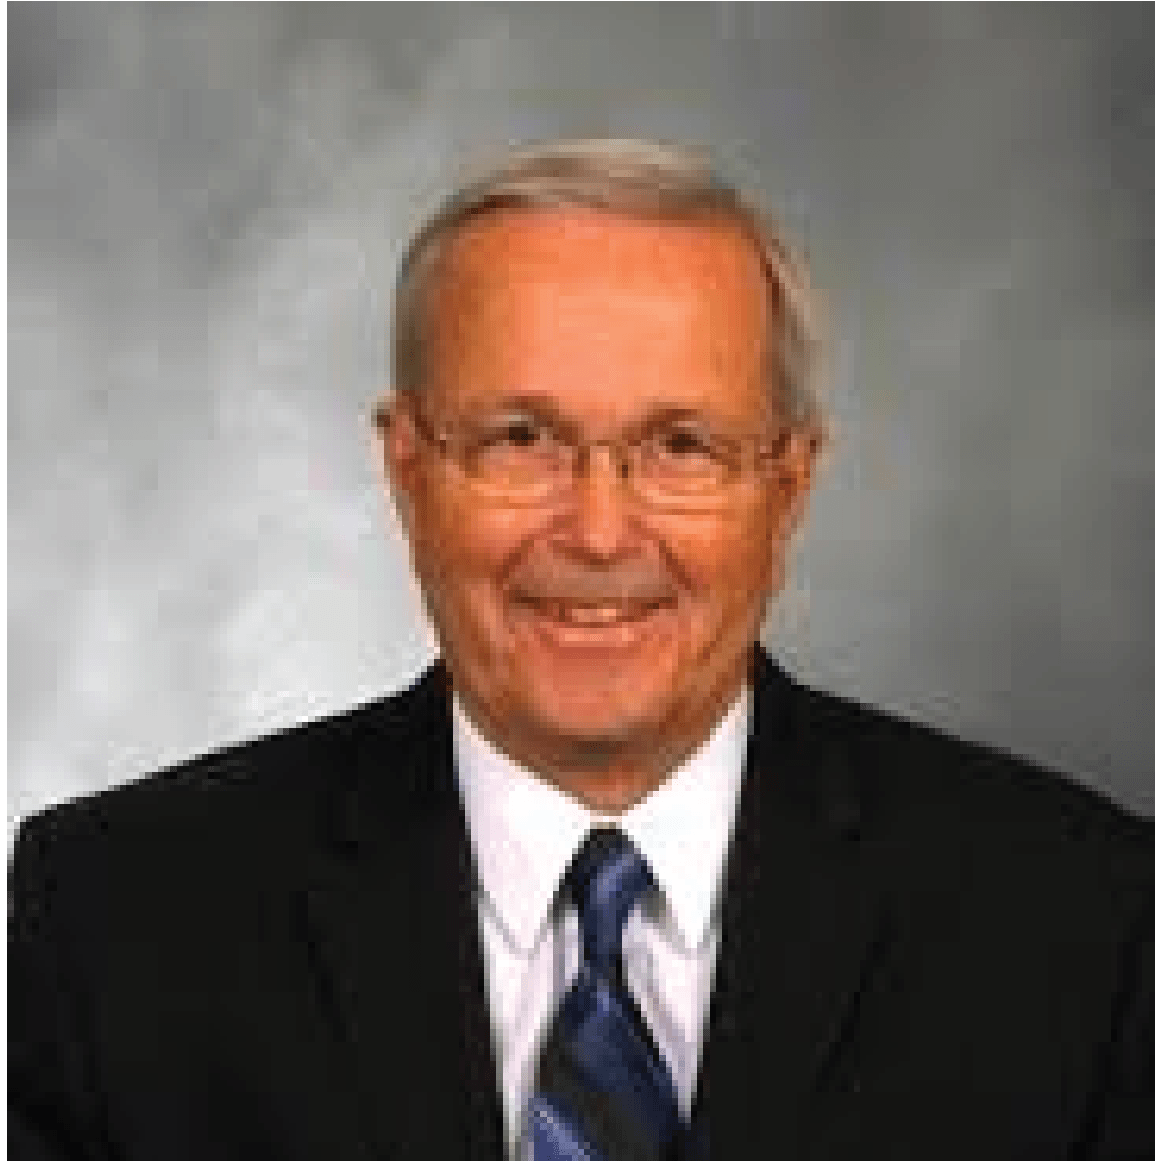
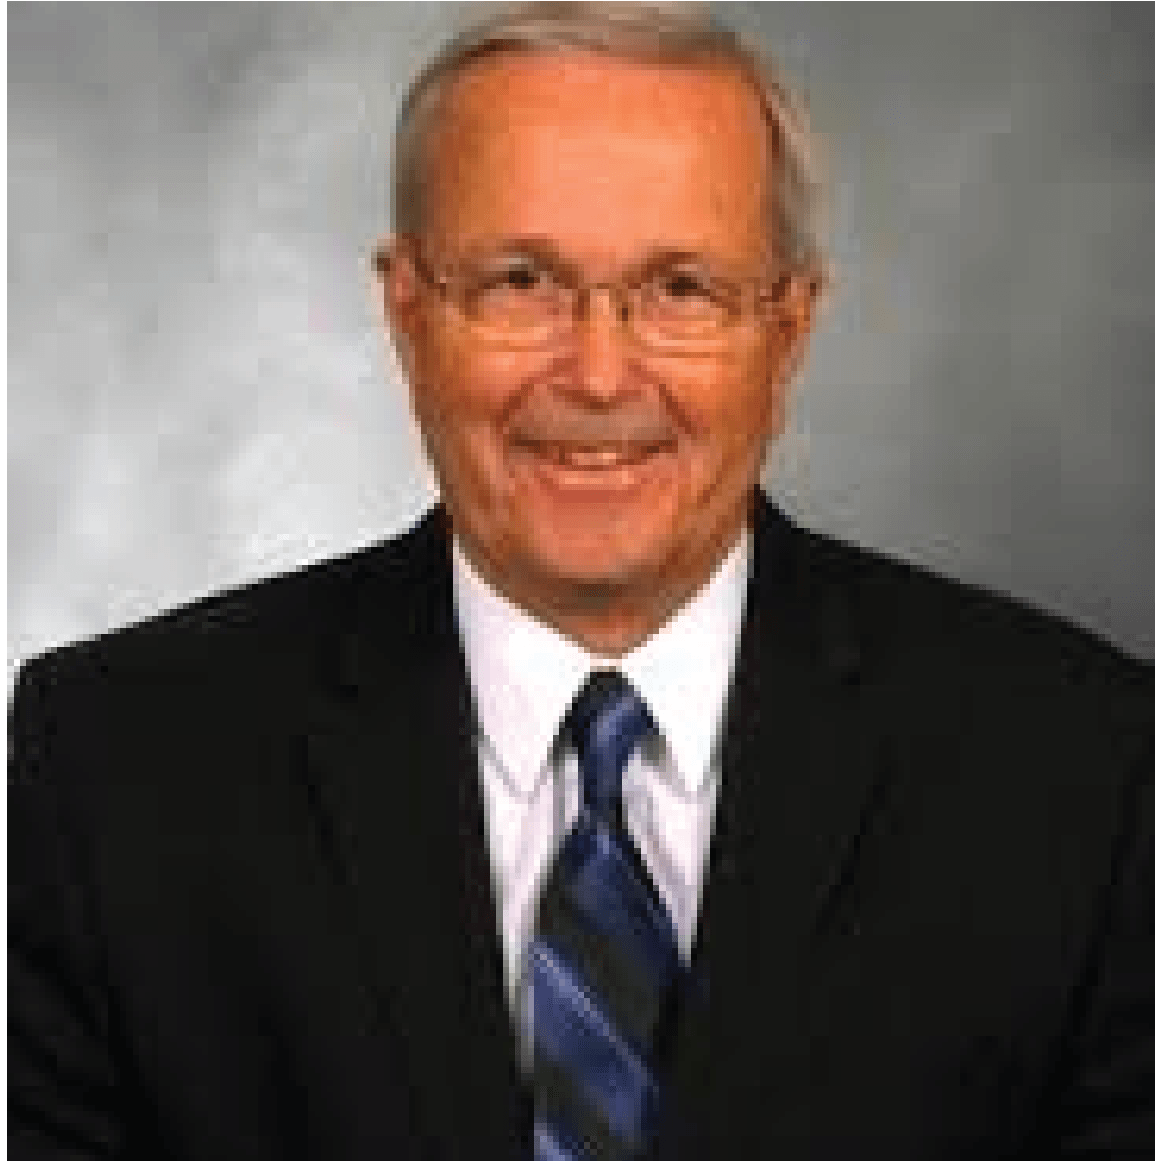
Add content
team page, home,

diff --git a/midterm/team.html b/midterm/team.html
@@ -50,12 +50,13 @@
       <a class="py-2 d-none d-md-inline-block" href="about.html">About</a>
     </div>
   </nav>
-
+  <!--team images-->
+<div class="container">
   <div class="d-md-flex flex-md-equal w-100 my-md-3 pl-md-3">
     <div class="bg-dark mr-md-3 pt-3 px-3 pt-md-5 px-md-5 text-center text-white overflow-hidden">
-      <div class="my-3 py-3">
-        <h2 class="display-5">Another headline</h2>
-        <p class="lead">And an even wittier subheading.</p>
+      <div class="my-3 p-3">
+        <h2 class="display-5">Anthony Greck</h2>
+        <p class="lead">Founder and CEO</p>
       </div>
       <div class="shadow-sm mx-auto" style="width: 80%; height: 300px;border-radius: 21px 21px 0 0;">
         <img src="images/team_member1.png" class="card-img-top" alt="team member">
@@ -63,8 +64,8 @@
     </div>
     <div class="bg-light mr-md-3 pt-3 px-3 pt-md-5 px-md-5 text-center overflow-hidden">
       <div class="my-3 p-3">
-        <h2 class="display-5">Another headline</h2>
-        <p class="lead">And an even wittier subheading.</p>
+        <h2 class="display-5">Marc Sander</h2>
+        <p class="lead">Founder</p>
       </div>
       <div class="shadow-sm mx-auto" style="width: 80%; height: 300px; border-radius: 21px 21px 0 0;">
         <img src="images/team_member2.png" class="card-img-top" alt="team member">
@@ -75,45 +76,46 @@
   <div class="d-md-flex flex-md-equal w-100 my-md-3 pl-md-3">
     <div class="bg-light mr-md-3 pt-3 px-3 pt-md-5 px-md-5 text-center overflow-hidden">
       <div class="my-3 p-3">
-        <h2 class="display-5">Another headline</h2>
-        <p class="lead">And an even wittier subheading.</p>
-      </div>
-      <div class="class="shadow-sm mx-auto" style="width: 80%; height: 300px; border-radius: 21px 21px 0 0;">
-        <img src="images/team_member3.png" class="card-img-top" alt="team member">
-      </div>
-    </div>
-    <div class="bg-primary mr-md-3 pt-3 px-3 pt-md-5 px-md-5 text-center text-white overflow-hidden">
-      <div class="my-3 py-3">
-        <h2 class="display-5">Another headline</h2>
-        <p class="lead">And an even wittier subheading.</p>
+        <h2 class="display-5">Jaquelin Saal</h2>
+        <p class="lead">Engineering</p>
       </div>
       <div class="shadow-sm mx-auto" style="width: 80%; height: 300px; border-radius: 21px 21px 0 0;">
         <img src="images/team_member4.png" class="card-img-top" alt="team member">
       </div>
     </div>
+    <div class="bg-dark mr-md-3 pt-3 px-3 pt-md-5 px-md-5 text-center text-white overflow-hidden">
+      <div class="my-3 p-3">
+        <h2 class="display-5">Sarah Shomer</h2>
+        <p class="lead">Operations</p>
+      </div>
+      <div class="shadow-sm mx-auto" style="width: 80%; height: 300px;border-radius: 21px 21px 0 0;">
+        <img src="images/team_member3.png" class="card-img-top" alt="team member">
+      </div>
+    </div>
+    
   </div>
 
   <div class="d-md-flex flex-md-equal w-100 my-md-3 pl-md-3">
-    <div class="bg-light mr-md-3 pt-3 px-3 pt-md-5 px-md-5 text-center overflow-hidden">
+    <div class="bg-dark mr-md-3 pt-3 px-3 pt-md-5 px-md-5 text-center text-white overflow-hidden">
       <div class="my-3 p-3">
-        <h2 class="display-5">Another headline</h2>
-        <p class="lead">And an even wittier subheading.</p>
+        <h2 class="display-5">Matt Gaunt</h2>
+        <p class="lead">Engineering</p>
       </div>
-      <div class="shadow-sm mx-auto" style="width: 80%; height: 300px; border-radius: 21px 21px 0 0;">
+      <div class="shadow-sm mx-auto" style="width: 80%; height: 300px;border-radius: 21px 21px 0 0;">
         <img src="images/team_member5.png" class="card-img-top" alt="team member">
       </div>
     </div>
     <div class="bg-light mr-md-3 pt-3 px-3 pt-md-5 px-md-5 text-center overflow-hidden">
-      <div class="my-3 py-3">
-        <h2 class="display-5">Another headline</h2>
-        <p class="lead">And an even wittier subheading.</p>
+      <div class="my-3 p-3">
+        <h2 class="display-5">Helen More</h2>
+        <p class="lead">Design Manager</p>
       </div>
       <div class="shadow-sm mx-auto" style="width: 80%; height: 300px; border-radius: 21px 21px 0 0;">
         <img src="images/team_member6.png" class="card-img-top" alt="team member">
       </div>
     </div>
   </div>
-
+</div>
 
   <footer class="container py-5">
     <div class="row">

diff --git a/midterm/about.html b/midterm/about.html
@@ -51,11 +51,14 @@
     </div>
   </nav>
 
-  <div class="position-relative overflow-hidden p-3 p-md-5 m-md-3 text-center bg-light">
+  <div class="position-relative overflow-hidden p-3 p-md-5 m-md-3 bg-light">
     <div class="col-md-5 p-lg-5 mx-auto my-5">
-      <h1 class="display-4 font-weight-normal">Punny headline</h1>
-      <p class="lead font-weight-normal">And an even wittier subheading to boot. Jumpstart your marketing efforts with
-        this example based on Apple’s marketing pages.</p>
+      <h1 class="display-4 font-weight-normal">About Us</h1>
+      <p class="lead font-weight-normal">Fisrt Stilts Inc. Stilt is a mission-driven fintech company focused on providing 
+        credit to immigrants and the underserved. We build products to improve financial inclusion and democratize access to the credit.</p>
+        <h1 class="display-4 font-weight-normal">Our Mission</h1>
+        <p class=" font-weight-normal">We believe financial products should be simple, fair, and honest. Stilt is building technology 
+          to democratize access to transparent credit products for the millions who are currently shut out by the financial system.</p>
       <a class="btn btn-outline-secondary" href="#">Coming soon</a>
     </div>
     <div class="product-device shadow-sm d-none d-md-block"></div>

diff --git a/midterm/main.css b/midterm/main.css
@@ -1,5 +1,5 @@
 .container {
-    max-width: 960px;
+    max-width: 1080px;
   }
   #TopAlert {
     margin: 0;
@@ -12,7 +12,7 @@
     -ms-user-select: none;
     user-select: none;
   }
-
+  
   @media (min-width: 768px) {
     .bd-placeholder-img-lg {
       font-size: 3.5rem;
@@ -35,7 +35,7 @@
  
   /*
    * Dummy devices (replace them with your own or something else entirely!)
-   */
+   
   
   .product-device {
     position: absolute;
@@ -67,7 +67,7 @@
     left: 5%;
     background-color: #e5e5e5;
   }
-  
+  */
   
   .flex-equal > * {
     -ms-flex: 1;
